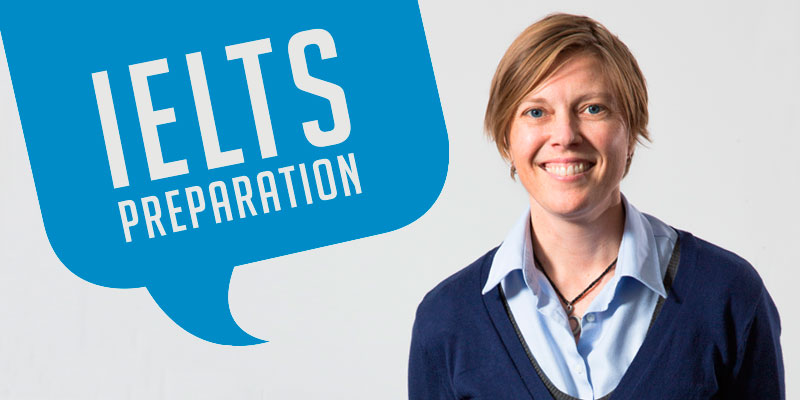
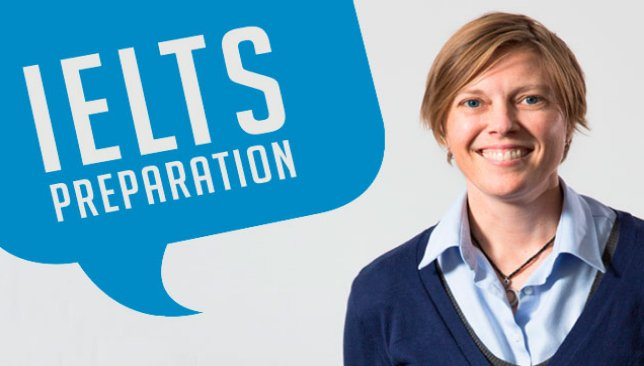
updated with images and fixed bugs

diff --git a/css/modern-business.css b/css/modern-business.css
@@ -667,3 +667,14 @@ div#mini-carousel-sm {
 #newsletter-modal .well p {
 	letter-spacing: 0.3px;
 }
+
+.carousel-caption {
+	background-color: rgba(0, 176, 255, 0.45);
+    border-radius: 9px;
+    font-weight: bold;
+    letter-spacing: 0.5px;
+}
+
+.right-carousel-img {
+	width: 100%;
+}

diff --git a/structure/index.php b/structure/index.php
@@ -374,7 +374,7 @@
 			</div>
 		</div>
 		<div class="img">
-			<img src="./images/la-palms.jpg" alt="..." class='img-responsive' />
+			<img src="./images/f2.jpg" alt="..." class='img-responsive right-carousel-img' />
 		</div>
 	</div>
 	
@@ -390,20 +390,23 @@
 			  <!-- Wrapper for slides -->
 			  <div class="carousel-inner" role="listbox">
 				    <div class="item active">
-				      <img src="./images/1900x1080px.jpg" alt="...">
-				      <div class="carousel-caption">
+				      <img src="./images/f1.jpg" alt="...">
+				      <div class="carousel-caption hidden-xs">
+				       Get A Counselling Session With Our Experts
 				      </div>
 				    </div>
 				    
 				    <div class="item">
-				      <img src="./images/1900x1080px.jpg" alt="...">
+				      <img src="./images/f4.jpg" alt="...">
 				      <div class="carousel-caption">
+				      	IELTS Preparation With Cosmo Immigration
 				      </div>
 				    </div>
 				    
 				    <div class="item">
-				      <img src="./images/1900x1080px.jpg" alt="...">
-				      <div class="carousel-caption">
+				      <img src="./images/f3.jpg" alt="...">
+				      <div class="carousel-caption hidden-xs">
+				      	Apply For Academic Courses In Canada
 				      </div>
 				    </div>
 			  </div>
